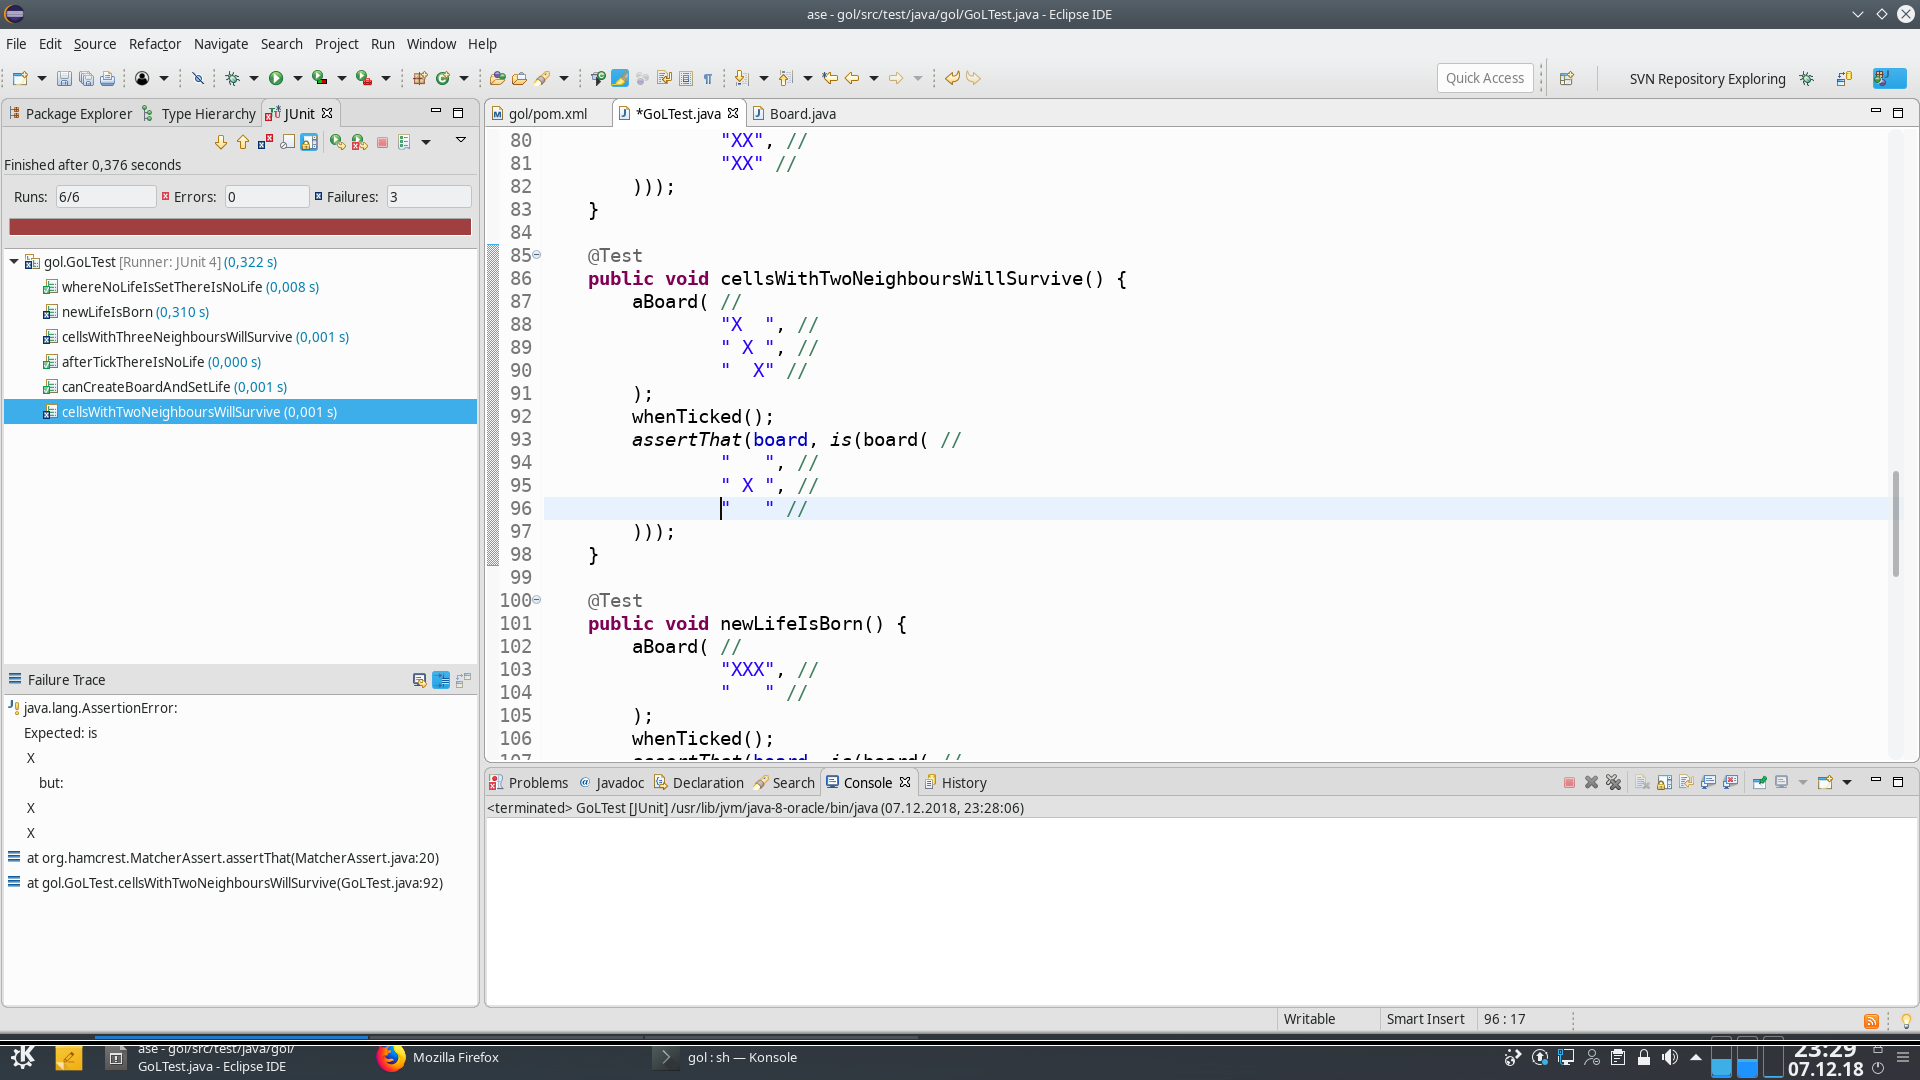
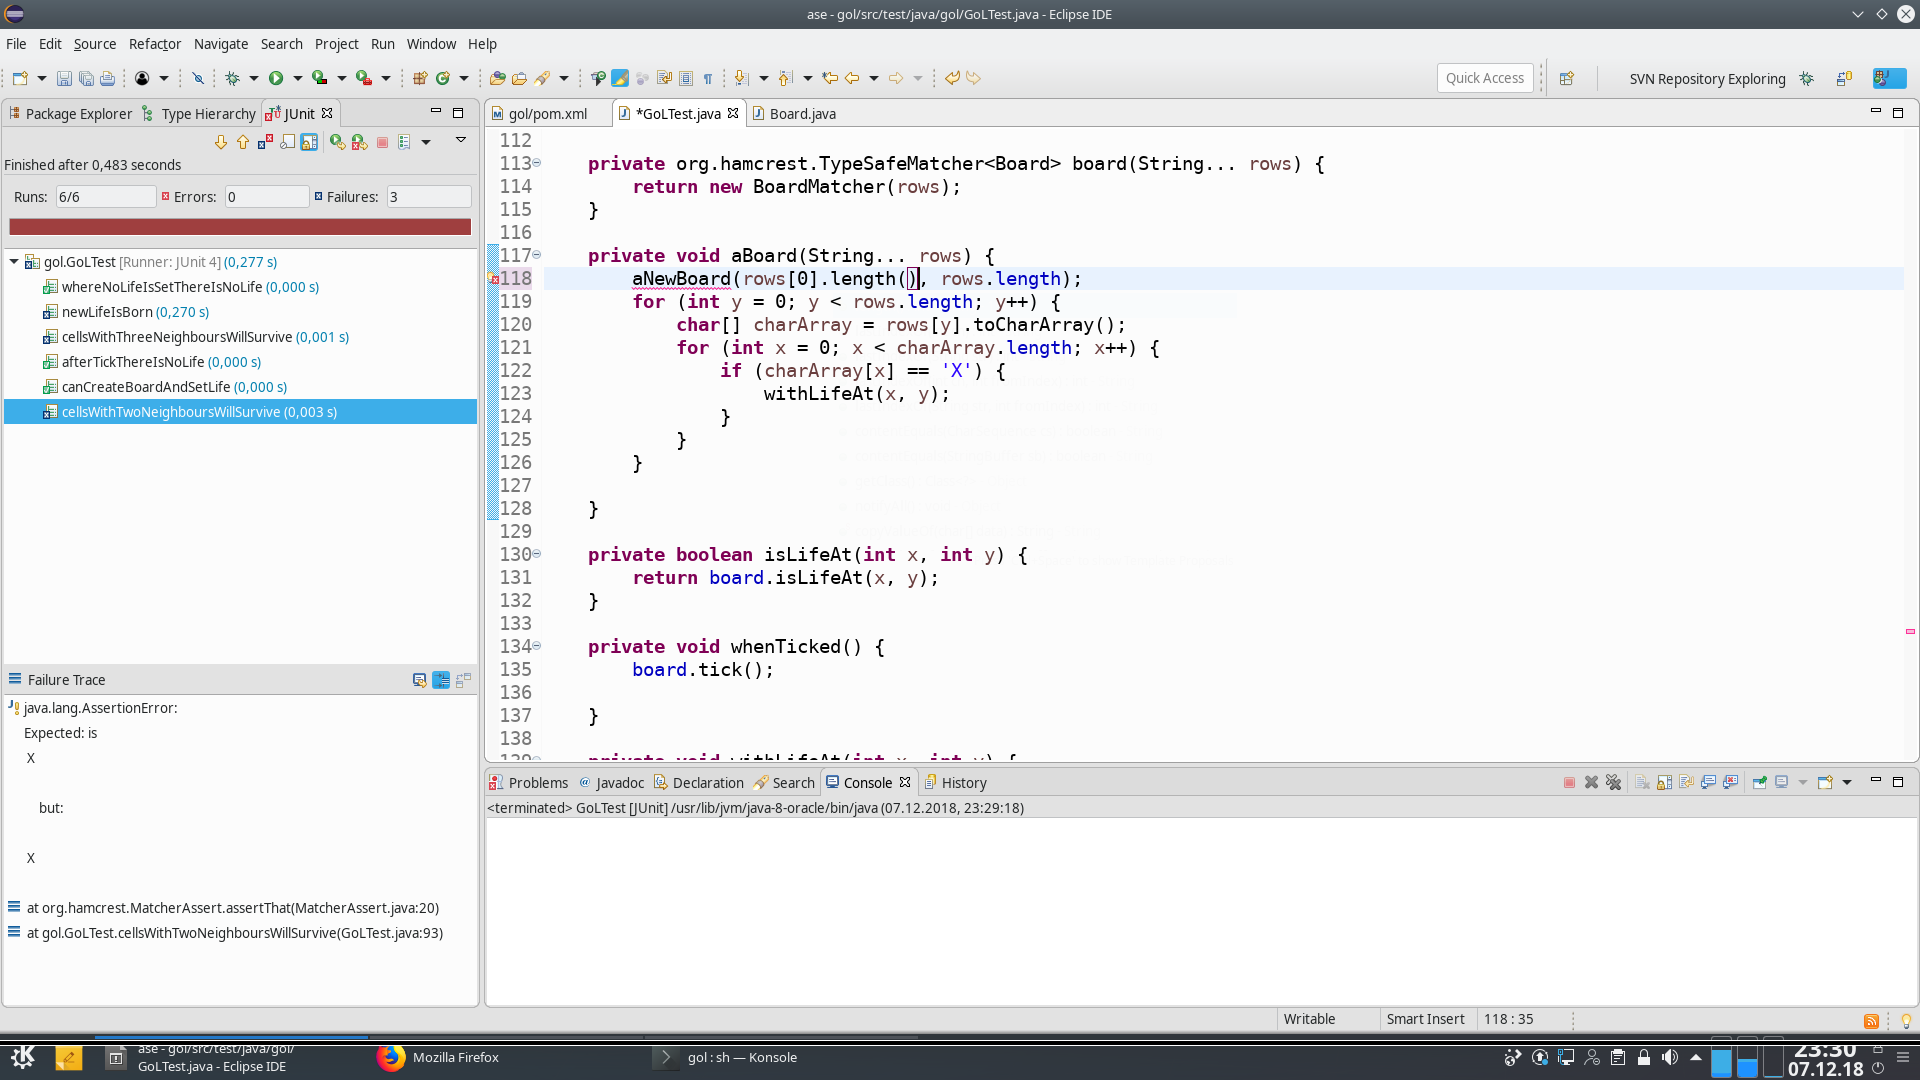
autocommit on change

diff --git a/src/test/java/gol/GoLTest.java b/src/test/java/gol/GoLTest.java
@@ -115,7 +115,7 @@ public class GoLTest {
 	}
 
 	private void aBoard(String... rows) {
-		aNewBoard(2, rows.length);
+		aNewBoard(rows[0].length(), rows.length);
 		for (int y = 0; y < rows.length; y++) {
 			char[] charArray = rows[y].toCharArray();
 			for (int x = 0; x < charArray.length; x++) {
